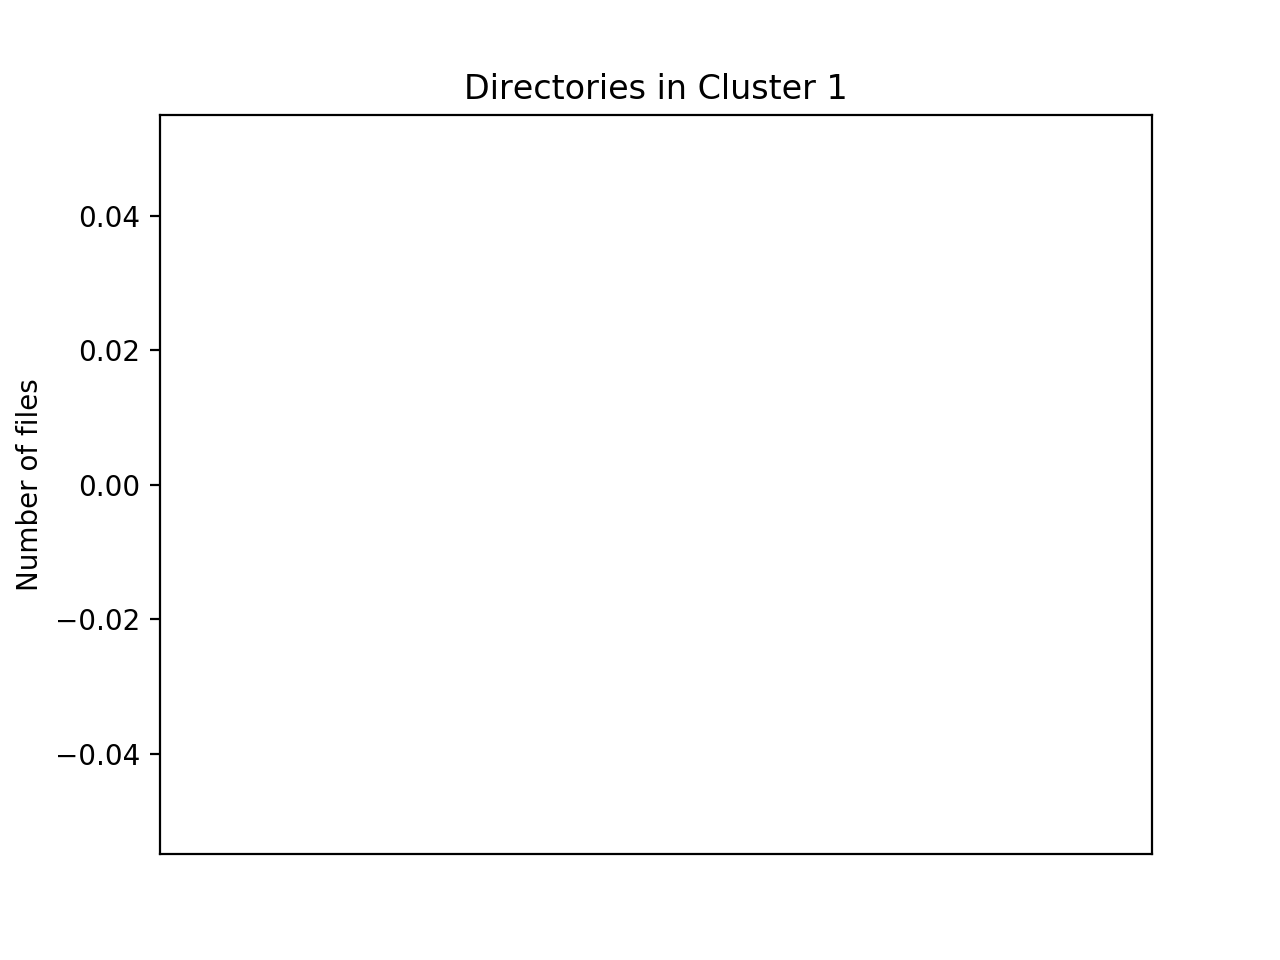
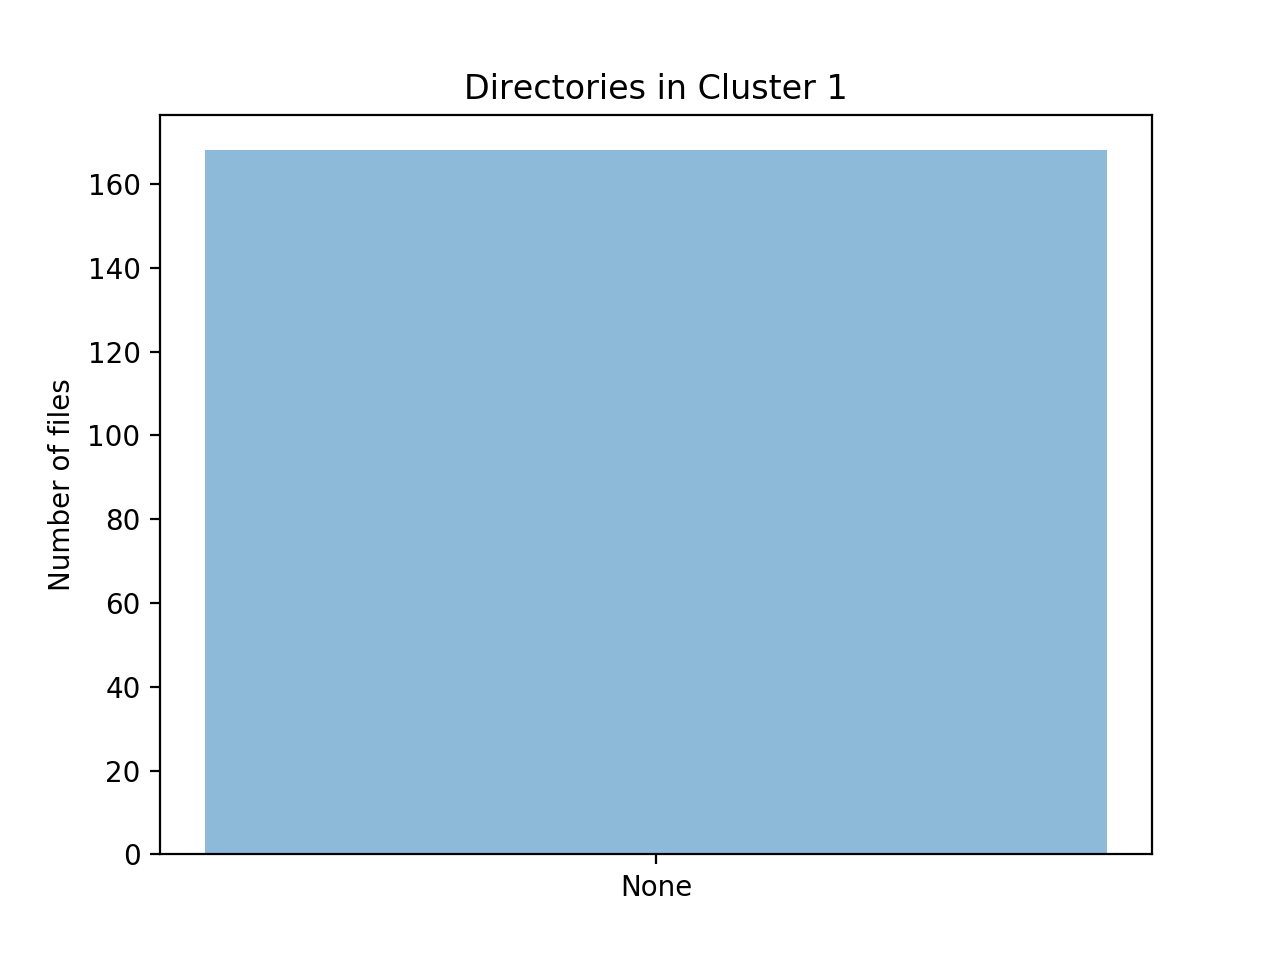
histograms??

diff --git a/document_clustering_attempt2.py b/document_clustering_attempt2.py
@@ -1,0 +1,272 @@
+import matplotlib
+matplotlib.use('Agg')
+from matplotlib import pyplot as plt
+import numpy as np
+import random
+from generate_token_dict import DFS
+import pandas as pd
+import nltk, re, os, codecs, mpld3, sys
+from time import time
+from six import string_types
+from sklearn.cluster import KMeans
+from sklearn.externals import joblib
+from sklearn import feature_extraction
+from sklearn.metrics.pairwise import cosine_similarity
+from sklearn.feature_extraction.text import TfidfVectorizer
+from sklearn.manifold import MDS
+from nltk.stem.snowball import SnowballStemmer
+from mpl_toolkits.mplot3d import Axes3D
+
+#=========1=========2=========3=========4=========5=========6=========7=
+
+''' PARAM: a string containing the directory of .txt files
+    RETURNS: a list of filenames and a list of the contents of the files 
+    DOES: gets all the filenames and their contents of a directory'''   
+def get_document_contents(directory):
+    filenames = []
+    data = []
+    # for every file in the given directory
+    print("num files in directory: ", len(os.listdir(directory)))
+    i = 1
+    for filename in os.listdir(directory):
+        print(i)
+        i = i + 1
+        current_file = os.path.join(directory,filename)
+        if os.path.isfile(current_file):
+            # add the filename to "filenames" 
+            filenames.append(filename)
+            # read the contents of the file and remove newlines
+            freader = open(current_file, "r", errors='backslashreplace')
+            contents = freader.read()#.encode("utf-8").decode('utf-8', 'backslashreplace')
+            freader.close()
+            contents = contents.replace("\n","")
+            # add the string of the contents of the file to "data"
+            data.append(contents)
+    print("Directory contents retrieved")
+    return filenames, data
+
+''' PARAM: the text of a document
+    RETURN: list of stems
+    DOES: splits a document into a list of tokens & stems each token '''
+def tokenize_and_stem(text):
+    # tokenize by sentence, then by word so punctuation is its own token
+    tokens = [word for sent in nltk.sent_tokenize(text) for word in nltk.word_tokenize(sent)]
+    filtered_tokens = []
+    # filter out tokens without letters (e.g., numbers, punctuation)
+    for token in tokens:
+        if re.search('[a-zA-Z]', token):
+            filtered_tokens.append(token)
+    stems = [stemmer.stem(t) for t in filtered_tokens]
+    return stems
+
+''' PARAM: the text of a document
+    RETURN: a list of filtered tokens
+    DOES: tokenizes the document only (doesn't stem) '''
+def tokenize_only(text):
+    # tokenize by sentence, then by word so punctuation is its own token
+    tokens = [word.lower() for sent in nltk.sent_tokenize(text) for word in nltk.word_tokenize(sent)]
+    filtered_tokens = []
+    # filter out tokens without letters (e.g., numbers, punctuation)
+    for token in tokens:
+        if re.search('[a-zA-Z]', token):
+            filtered_tokens.append(token)
+    return filtered_tokens
+
+#=========1=========2=========3=========4=========5=========6=========7=
+
+def main_function(num_clusters, retokenize, corpusdir):
+    # record initial time that program started
+    t0 = time()
+
+    # gets the filenames and their contents
+    fnames, dataset = get_document_contents(corpusdir)
+    #stopwords = nltk.download('stopwords')
+
+    #nltk.download('punkt')
+    stemmer = SnowballStemmer("english")
+
+    #=========1=========2=========3=========4=========5=========6=======
+
+    if retokenize == "1": 
+        totalvocab_stemmed = []
+        totalvocab_tokenized = []
+        count = 1
+        d_length = len(dataset)
+        for i in dataset:
+            print("tokenizing document ", count, " of ", d_length)
+            count = count + 1
+            # for each item in the dataset, tokenize/stem
+            allwords_stemmed = tokenize_and_stem(i)
+            # extend "totalvocab_stemmed" 
+            totalvocab_stemmed.extend(allwords_stemmed)
+            
+            # for each item in the dataset, tokenize only
+            allwords_tokenized = tokenize_only(i)
+            totalvocab_tokenized.extend(allwords_tokenized)
+
+        # create vocab_frame with "totalvocab_stemmed" or "totalvocab_tokenized"
+        vocab_frame = pd.DataFrame({'words': totalvocab_tokenized}, 
+                    index = totalvocab_stemmed)
+        vocab_frame.to_pickle("vocab_frame.pkl")
+        print('there are ' + str(vocab_frame.shape[0]) + ' items in vocab_frame')
+
+        #define vectorizer parameters
+        tfidf_vectorizer = TfidfVectorizer(max_df=0.8, max_features=200000,
+                              min_df=0.2, stop_words='english', use_idf=True, 
+                              tokenizer=tokenize_and_stem, ngram_range=(1,3))
+
+        #fits the vectorizer to the dataset
+        tfidf_matrix = tfidf_vectorizer.fit_transform(dataset) 
+        terms = tfidf_vectorizer.get_feature_names()
+        np.save("terms.npy", terms)
+        dist = 1 - cosine_similarity(tfidf_matrix)
+        np.save("distance_matrix.npy", dist)
+        print("vectorizer fitted to data")
+
+        #=========1=========2=========3=========4=========5=========6======
+
+        # cluster using KMeans on the tfidf matrix
+        km = KMeans(n_clusters=num_clusters)
+        km.fit(tfidf_matrix)
+        clusters = km.labels_.tolist()
+        print("kmeans clustering complete")
+
+        # pickle the model, reload the model/reassign the labels as the clusters
+        joblib.dump(km,  'doc_cluster.pkl')
+
+
+    km = joblib.load('doc_cluster.pkl')
+    vocab_frame = pd.read_pickle("vocab_frame.pkl")
+    terms = np.load("terms.npy")
+    dist = np.load("distance_matrix.npy")
+    print("Loaded in existing cluster profile...\n")
+
+    clusters = km.labels_.tolist()
+
+    # create a dictionary "db" of filenames, contents, and clusters
+    db = {'filename': fnames, 'content': dataset, 'cluster': clusters}
+    # convert "db" to a pandas datafram
+    frame = pd.DataFrame(db, index=[clusters], columns=['filename','cluster'])
+    # print the number of files in each cluster
+    print(frame['cluster'].value_counts())
+
+    #=========1=========2=========3=========4=========5=========6=========
+    '''
+    # open file writer for result output
+    output_path = os.path.join(corpusdir, "results/")
+    if not os.path.isdir(output_path):
+        os.mkdir(output_path)
+    os.chdir(output_path)
+    fwriter = open("doc_clusters.txt", "w")
+    fwriter.write("clusters from .txt files in: " + corpusdir)
+
+    fwriter.write("\nTop terms per cluster: \n\n")
+    print("Top terms per cluster: \n")
+
+    #sort cluster centers by proximity to centroid
+    order_centroids = km.cluster_centers_.argsort()[:, ::-1] 
+
+    # for each cluster
+    for i in range(num_clusters):
+        fwriter.write("Cluster " + str(i) + " words: ")
+        print("Cluster %d words:" % i, end='')
+        
+        # print the first "n_words" words in a cluster
+        n_words = 10
+        for ind in order_centroids[i, : n_words]:
+            print(' %s' % vocab_frame.ix[terms[ind].split(' ')].values.tolist()[0][0],
+                    end=",")
+            fwriter.write(vocab_frame.ix[terms[ind].split(' ')].values.tolist()[0][0].rstrip('\n') + ", ")
+        print()
+        fwriter.write("\n")
+        
+        # print out the filenames in the cluster
+        print("Cluster %d filenames:" % i, end='')
+        fwriter.write("Cluster " + str(i) + " filenames: ")
+        for filename in frame.ix[i]['filename'].values.tolist():
+            print(' %s,' % filename, end='')
+            fwriter.write(filename.rstrip('\n') + ", ")
+        print("\n")
+        fwriter.write("\n\n")
+
+    fwriter.close()
+    print("output written to \"doc_clusters.txt\" in \"results\" of the original directory")
+
+    #=========1=========2=========3=========4=========5=========6========
+
+    # multidimensional scaling to convert distance matrix into 3 dimensions
+    mds = MDS(n_components=3, dissimilarity="precomputed", random_state=1)
+    pos = mds.fit_transform(dist)  # shape (n_components, n_samples)
+    xs, ys, zs = pos[:, 0], pos[:, 1], pos[:, 2]
+
+    # set up plot
+    fig = plt.figure(figsize=(17,9))
+    ax = Axes3D(fig)
+
+    # create data frame with MDS results, cluster numbers, and filenames
+    df = pd.DataFrame(dict(x=xs, y=ys, z=zs, label=clusters, filename=fnames)) 
+    # group by cluster
+    groups = df.groupby('label')
+
+    # for each cluster, plot the files in that cluster
+    for name, group in groups:
+        # color = ('#%06X' % random.randint(0,256**3-1))
+        color = np.random.rand(3,)
+        for t in range(group.shape[0]):
+            ax.scatter(group.x.iloc[t], group.y.iloc[t], group.z.iloc[t], 
+                c=color, marker='o')
+            ax.set_aspect('auto')
+
+    plt.savefig("3D_document_cluster", dpi=300)
+    print("scatter plot written to \"3D_document_cluster.png\"")
+    '''
+    # print total time taken to run program
+    print("time taken: ", time()-t0)
+    
+    return frame
+
+
+def bar_clusters(frame, path, num_clusters):
+    file_pathtokens_dict, file_path_dict = DFS(path,1)
+    plt.figure("hist")
+    
+    for i in range(num_clusters):
+        plt.clf()
+        paths_in_cluster = {}
+        print(frame.loc[frame['cluster']==1])
+        count = 0    
+        for row in frame.loc[frame['cluster']==i]:
+            if count>1:
+                print(row)
+                fna = row['filename']
+                path = file_path_dict.get(fna)
+                if path in paths_in_cluster:
+                    paths_in_cluster.update({path:paths_in_cluster.get(path)+1})
+                else:
+                    paths_in_cluster.update({path:1})
+            count+=1
+        sorted_names = []
+        sorted_counts = []
+        for e in sorted(paths_in_cluster, key=paths_in_cluster.get, reverse=True):
+            sorted_names.append(e)
+            sorted_counts.append(paths_in_cluster[e])
+        y_pos = np.arange(len(sorted_names))
+
+        plt.bar(y_pos, sorted_counts, align='center', alpha=0.5)
+        plt.xticks(y_pos, sorted_names)
+        plt.ylabel('Number of files')
+        plt.title('Directories in Cluster ' + str(i))
+        save_name = "histogram_cluster"+str(i)
+        os.chdir("/home/ljung/CDIAC-clust/txt_cluster_hists/")
+        plt.savefig(save_name, dpi=200)
+
+
+# MAIN PROGRAM
+
+num_clusters = int(sys.argv[1])
+retokenize = sys.argv[2]
+# the directory of the files you want to cluster
+corpusdir = "/home/ljung/extension_sorted_data/all_text/"
+corpusdir = sys.argv[3]
+fr = main_function(num_clusters, retokenize, corpusdir)
+bar_clusters(fr, "/home/ljung/pub8/", num_clusters)
